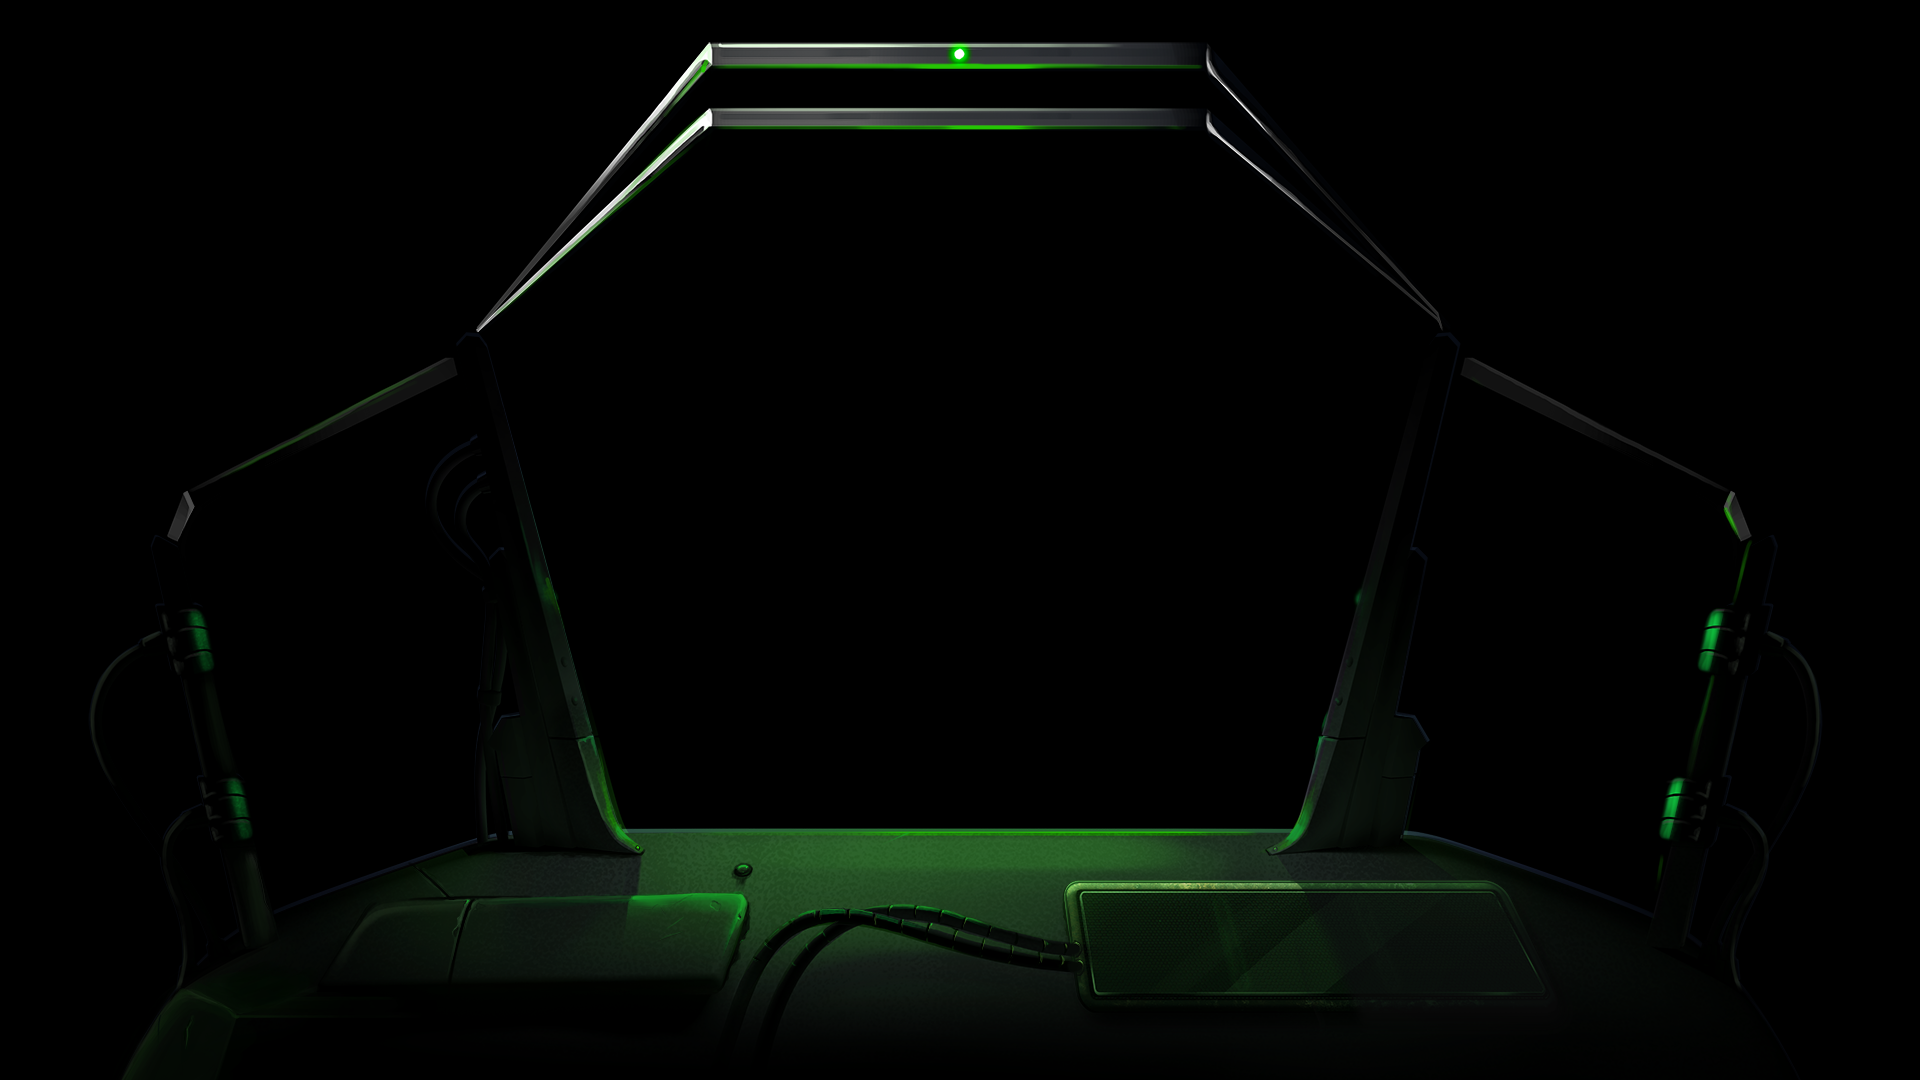
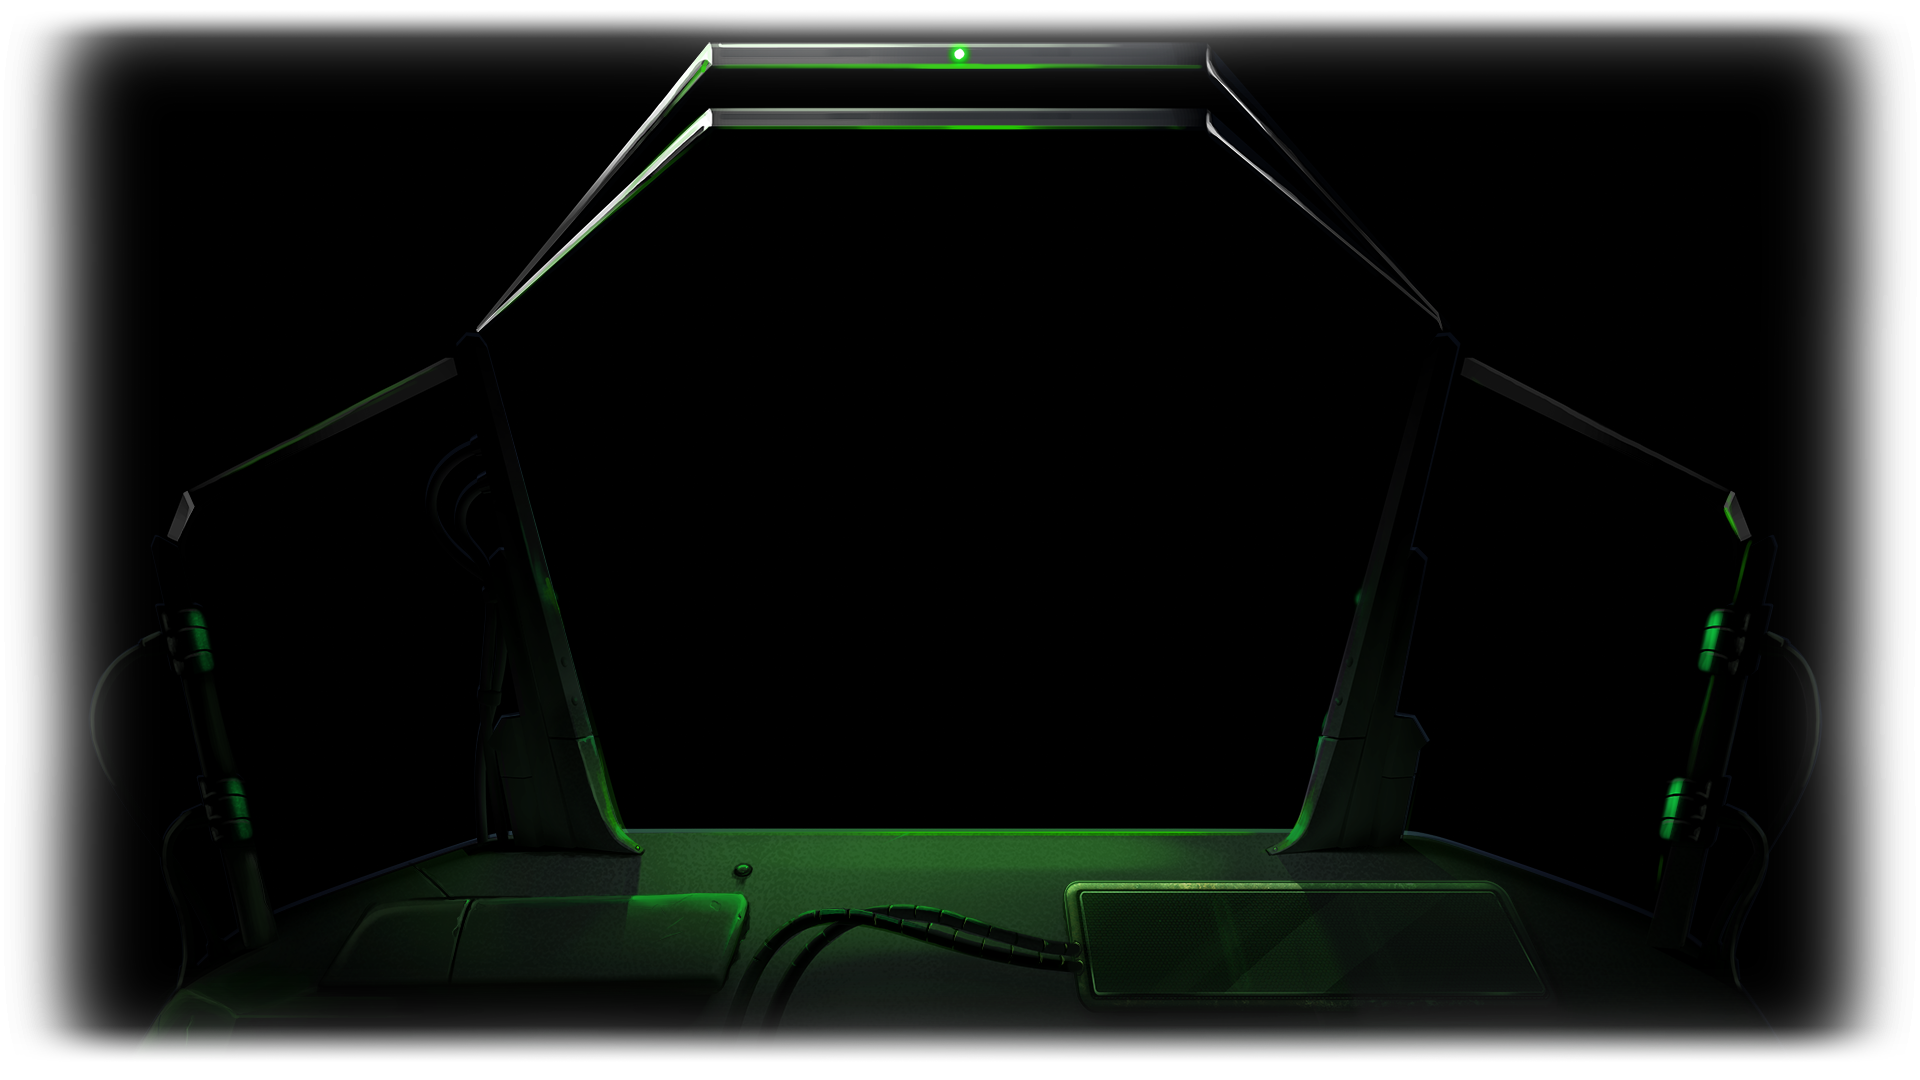
client: фон уходит в прозрачность по краям

Changed region(s): [[0.0, 0.0, 1.0, 1.0]]

diff --git a/sublayers_server/templates/location/town_new.html b/sublayers_server/templates/location/town_new.html
@@ -12,9 +12,10 @@
         position: absolute;
         width: 780px;
         height: 690px;
-        background-color: red;
+        border: 2px solid forestgreen;
         top: 138px;
         left: 570px;
+        pointer-events: none;
     }
 
     .town-img-mask {
@@ -38,7 +39,7 @@
         top: 50px;
         width: 400px;
         height: 400px;
-        background-color: yellow;
+        background-color: rgba(0,150,0,0.25);
     }
 
     .town-panel.left {left: 100px;}
@@ -50,7 +51,14 @@
     {% raw svg_code %}
 </div>
 
-<div id="building-content"></div>
+<div id="building-content">
+    {% for building in town.example.buildings %}
+        {% set cur_build = town.example.buildings[building] %}
+        <div id="building_{{ building }}" class="townPageWrap building-wrap" style="display: none">
+            {% include building_window.html %}
+        </div>
+    {% end %}
+</div>
 
 <img class="town-img-mask" src="static/content/locations/towns/city_mask_1.png"/>
 
@@ -160,8 +168,8 @@
             index = index.substr(index.length - 1, 1);
             $("#img_house"+ index +"_on").css("display", "block");
             $("#img_house" + index + "_off").css("display", "none");
-            $("#path_h" + index).css("opacity", "0.8");
-            $("#path_text_h" + index).css("opacity", "0.8");
+            $("#path_h" + index).css("opacity", "0.6");
+            $("#path_text_h" + index).css("opacity", "0.6");
 
         });
 

diff --git a/sublayers_common/static/css/view.css b/sublayers_common/static/css/view.css
@@ -191,7 +191,7 @@ input:focus {
     left: 0;
     width: 100%;
     height: 100%;
-    background-color: black;
+    background-color: #030f00;
 }
 
 #activeTownDiv {
@@ -199,7 +199,6 @@ input:focus {
     width: 1920px;
     height: 1080px;
     display: none;
-    background-color: #0078A8;
     margin-left: -960px;
     margin-top: -540px;
     left: 50%;
